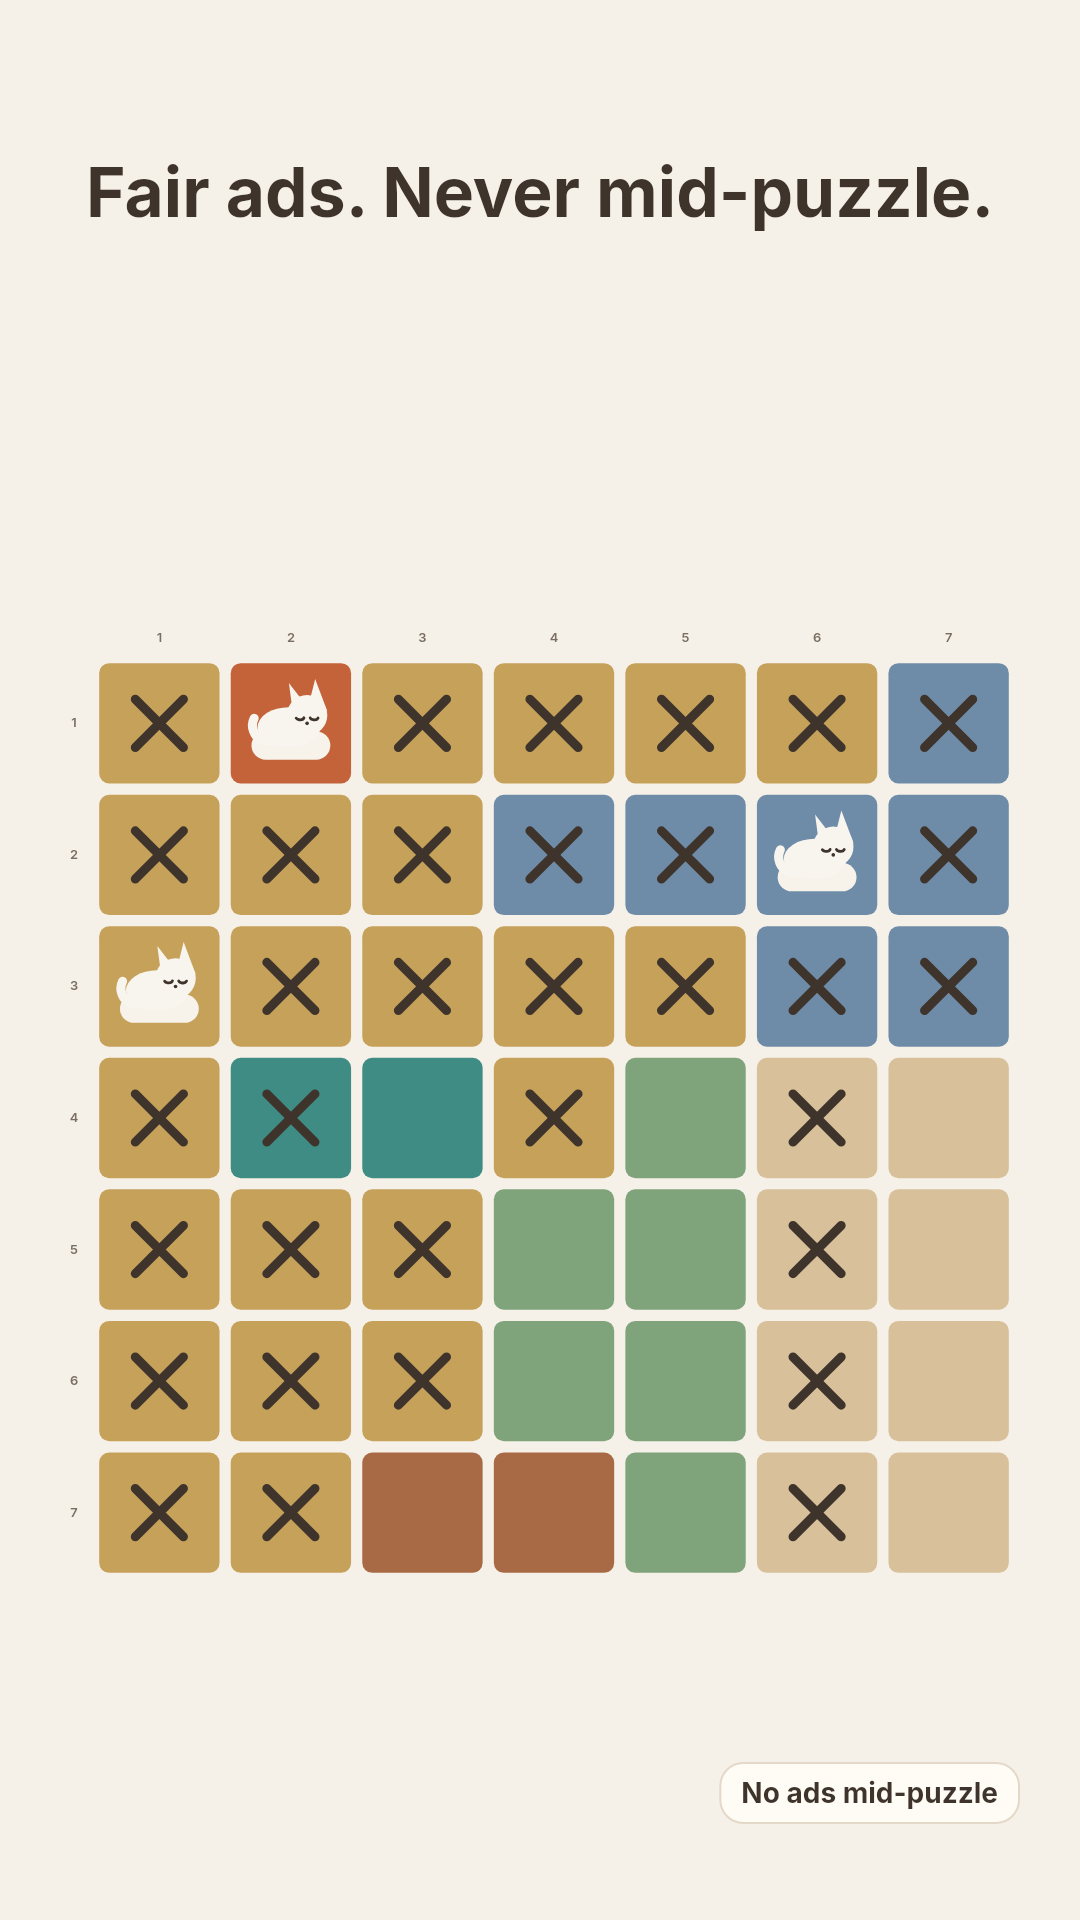
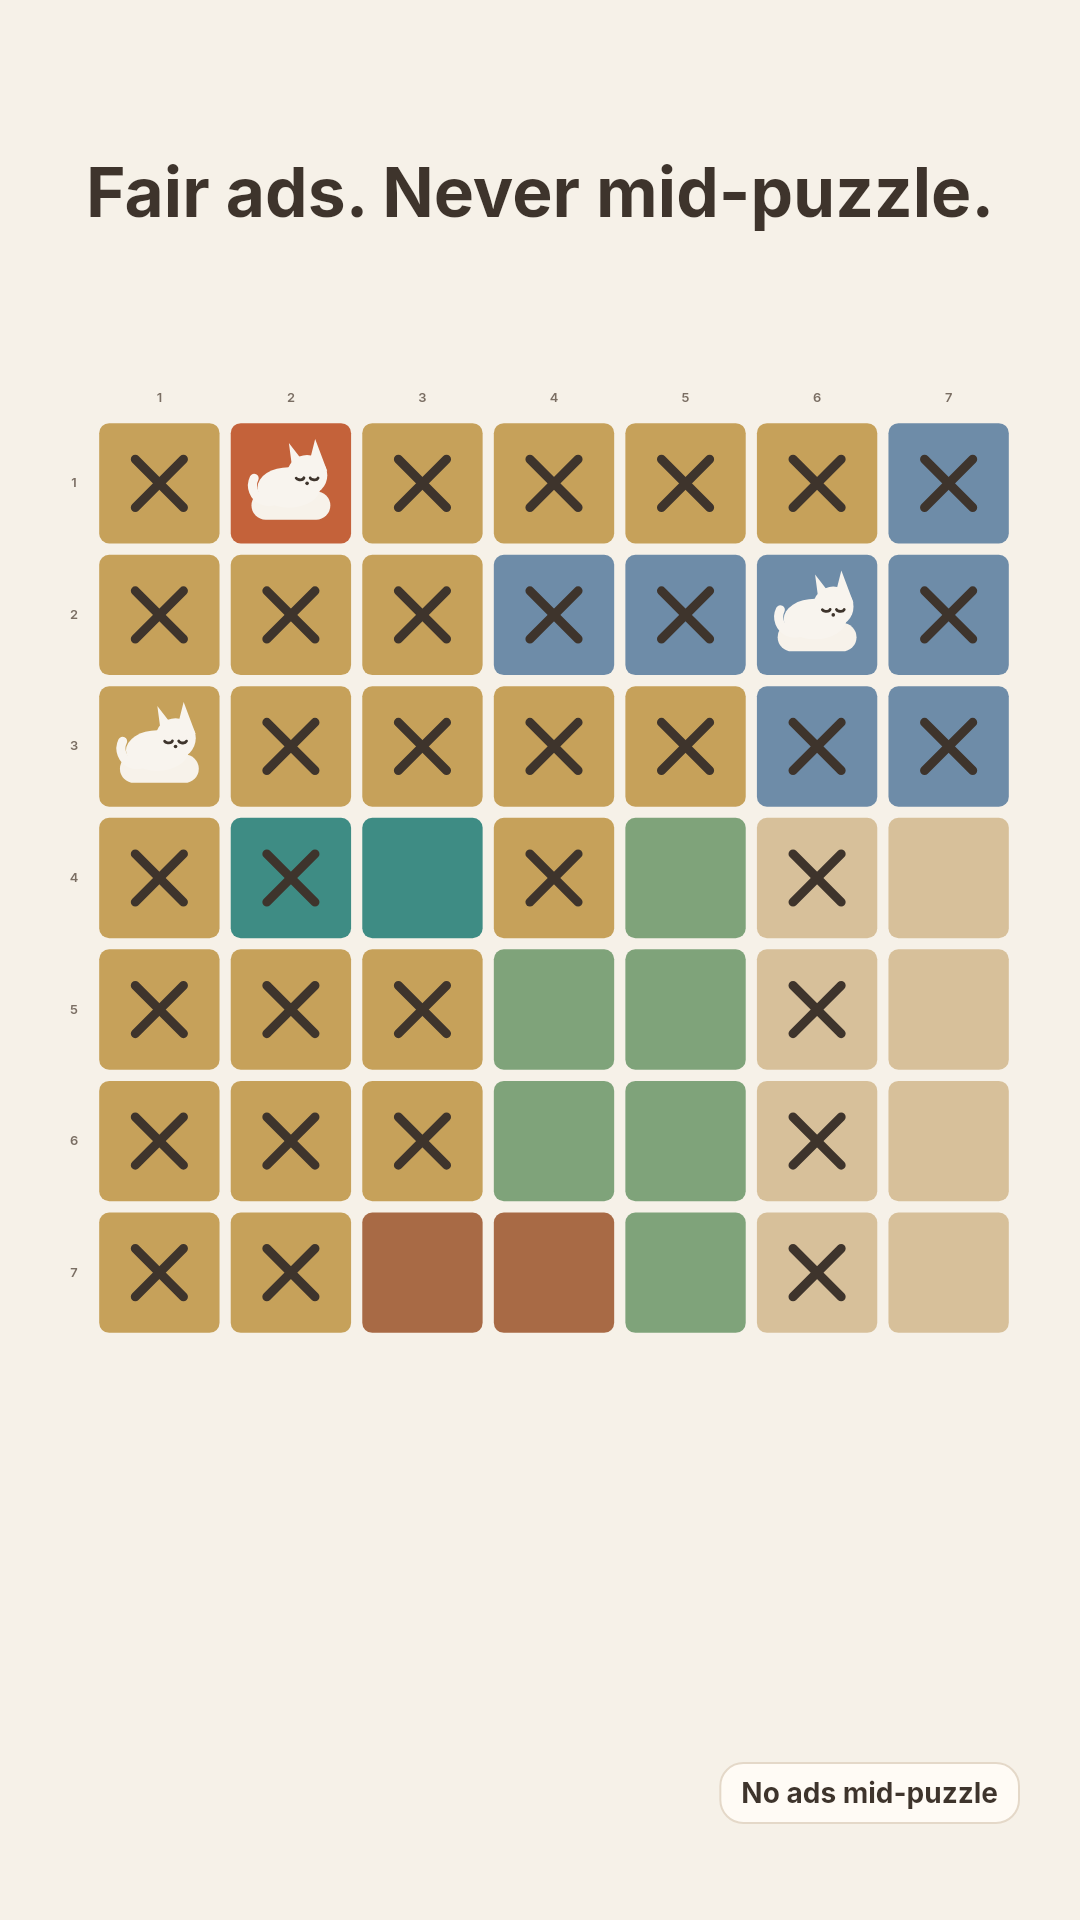
Give the hint shot a unique puzzle and tighten the ad gates.
Shot 4 uses campaign puzzle 7-023, which the solver accepts once, and the capture test checks every store board the same way. Remove Ads hides both menu banners, and a daily win cannot raise an interstitial before eight campaign puzzles are finished.

diff --git a/test/store/capture_store_test.dart b/test/store/capture_store_test.dart
@@ -21,6 +21,7 @@ late Puzzle five;
 late Puzzle seven;
 late Puzzle ten;
 late Puzzle daily;
+late Puzzle hintPuzzle;
 late List<CellMark> sevenMarks;
 late List<CellMark> fiveMarks;
 late List<CellMark> tenMarks;
@@ -100,13 +101,11 @@ Widget board(
   Set<int> emphasis = const {},
   Set<int> dim = const {},
   bool patterns = false,
+  bool alignTop = false,
   CatPalette? palette,
 }) {
   final theme = palette ?? meadow;
-  return CatTheme(
-    palette: theme,
-    patterns: patterns || theme.colorBlindSafe,
-    child: BoardView(
+  final view = BoardView(
       puzzle: puzzle,
       marks: marks,
       palette: theme,
@@ -116,7 +115,21 @@ Widget board(
       dim: dim,
       onTap: (_) {},
       onDoubleTap: (_) {},
-    ),
+    );
+  return CatTheme(
+    palette: theme,
+    patterns: patterns || theme.colorBlindSafe,
+    child: alignTop
+        ? LayoutBuilder(
+            builder: (context, constraints) {
+              final side = constraints.maxWidth;
+              return Align(
+                alignment: Alignment.topCenter,
+                child: SizedBox(width: side, height: side, child: view),
+              );
+            },
+          )
+        : view,
   );
 }
 
@@ -154,8 +167,12 @@ void main() {
     fiveMarks = placed(five, 2);
     tenMarks = placed(ten, 4);
     dailyMarks = placed(daily, 2);
+    hintPuzzle = catalog.levelById('7-023').toPuzzle();
     step = nextDeduction(seven, List<int>.filled(seven.cellCount, 0))!;
     regionNames = [for (final look in meadow.looks) look.name];
+    for (final entry in [('5x5', five), ('7x7', seven), ('10x10', ten), ('daily', daily), ('hint', hintPuzzle)]) {
+      expect(Solver.solutions(entry.$2, limit: 2), hasLength(1), reason: entry.$1);
+    }
   });
 
   testWidgets('01 fair ads', (tester) async {
@@ -166,7 +183,7 @@ void main() {
         caption: 'Fair ads. Never mid-puzzle.',
         scene: Stack(
           children: [
-            Padding(padding: const EdgeInsets.fromLTRB(60, 0, 60, 96), child: board(seven, sevenMarks)),
+            Padding(padding: const EdgeInsets.fromLTRB(60, 0, 60, 96), child: board(seven, sevenMarks, alignTop: true)),
             Positioned(right: 60, bottom: 96, child: _Badge(text: 'No ads mid-puzzle', palette: meadow)),
           ],
         ),
@@ -209,7 +226,13 @@ void main() {
           children: [
             Padding(
               padding: const EdgeInsets.fromLTRB(60, 0, 60, 180),
-              child: board(seven, _catIn(seven, step.focusCells.isEmpty ? step.resultCells : step.focusCells)),
+              child: board(seven, _catIn(seven, step.focusCells.isEmpty ? step.resultCells : step.focusCells), alignTop: true),
+            ),
+            const Positioned(
+              left: 0,
+              right: 0,
+              bottom: 190,
+              child: Center(child: CustomPaint(size: Size(28, 70), painter: _UpArrow())),
             ),
             const Positioned(
               left: 60,
@@ -225,14 +248,14 @@ void main() {
   });
 
   testWidgets('04 hints', (tester) async {
-    final puzzle = Puzzle(5, const [
-      1, 1, 0, 2, 2, //
-      1, 1, 0, 2, 2, //
-      1, 3, 0, 2, 2, //
-      3, 3, 3, 4, 4, //
-      3, 3, 4, 4, 4,
-    ]);
-    final hint = LogicState(puzzle).next(allowContradiction: false)!;
+    final puzzle = hintPuzzle;
+    expect(Solver.solutions(puzzle, limit: 2), hasLength(1));
+    final hint = analyzePuzzle(puzzle).steps.firstWhere(
+      (item) => item.kind == StepKind.regionInRow && item.regionIds.single == 3 && item.rows.single == 3,
+    );
+    expect(hint.focusCells, [25, 26]);
+    expect(explainStep(hint, regionNames), 'Teal fits only in row 4, so no other cell in row 4 can hold a cat.');
+    final row = {for (var column = 0; column < puzzle.size; column++) 3 * puzzle.size + column};
     await capture(
       tester,
       const Size(1080, 1920),
@@ -247,7 +270,8 @@ void main() {
                   puzzle,
                   List<CellMark>.filled(puzzle.cellCount, CellMark.empty),
                   focus: hint.focusCells.toSet(),
-                  dim: hint.resultCells.toSet(),
+                  dim: row.difference(hint.focusCells.toSet()),
+                  alignTop: true,
                 ),
               ),
             ),
@@ -312,16 +336,16 @@ void main() {
             alignment: Alignment.center,
             children: [
               Transform.translate(
-                offset: const Offset(-180, 40),
-                child: Transform.rotate(angle: -0.16, child: SizedBox(width: 640, height: 640, child: board(five, fiveMarks))),
+                offset: const Offset(-280, -36),
+                child: Transform.rotate(angle: -0.06, child: SizedBox(width: 400, height: 400, child: board(five, fiveMarks))),
               ),
               Transform.translate(
-                offset: const Offset(20, -20),
-                child: Transform.rotate(angle: 0.02, child: SizedBox(width: 720, height: 720, child: board(seven, sevenMarks))),
+                offset: const Offset(-200, 28),
+                child: Transform.rotate(angle: -0.02, child: SizedBox(width: 500, height: 500, child: board(seven, sevenMarks))),
               ),
               Transform.translate(
-                offset: const Offset(200, 30),
-                child: Transform.rotate(angle: 0.14, child: SizedBox(width: 820, height: 820, child: board(ten, tenMarks))),
+                offset: const Offset(160, 12),
+                child: SizedBox(width: 640, height: 640, child: board(ten, tenMarks)),
               ),
             ],
           ),
@@ -341,9 +365,9 @@ void main() {
           padding: const EdgeInsets.fromLTRB(60, 0, 60, 96),
           child: Row(
             children: [
-              Expanded(child: _LabeledBoard(label: 'Standard', child: board(five, fiveMarks))),
+              Expanded(child: _LabeledBoard(label: 'Standard', child: board(five, fiveMarks, alignTop: true))),
               const SizedBox(width: 24),
-              Expanded(child: _LabeledBoard(label: 'Color-blind', child: board(five, fiveMarks, patterns: true, palette: beacon))),
+              Expanded(child: _LabeledBoard(label: 'Color-blind', child: board(five, fiveMarks, patterns: true, palette: beacon, alignTop: true))),
             ],
           ),
         ),
@@ -468,6 +492,29 @@ class _OfflineChip extends StatelessWidget {
       ),
     );
   }
+}
+
+class _UpArrow extends CustomPainter {
+  const _UpArrow();
+
+  @override
+  void paint(Canvas canvas, Size size) {
+    final paint = Paint()
+      ..color = const Color(0xFF3E342C)
+      ..strokeWidth = 4
+      ..strokeCap = StrokeCap.round
+      ..style = PaintingStyle.stroke;
+    canvas.drawLine(Offset(size.width / 2, size.height), Offset(size.width / 2, 12), paint);
+    final head = Path()
+      ..moveTo(size.width / 2, 0)
+      ..lineTo(4, 18)
+      ..moveTo(size.width / 2, 0)
+      ..lineTo(size.width - 4, 18);
+    canvas.drawPath(head, paint);
+  }
+
+  @override
+  bool shouldRepaint(covariant CustomPainter oldDelegate) => false;
 }
 
 class _FlamePainter extends CustomPainter {

diff --git a/lib/core/ad_pacing.dart b/lib/core/ad_pacing.dart
@@ -63,8 +63,9 @@ class AdPacing {
     required DateTime now,
     required DateTime? lastInterstitialAt,
     required int interstitialsToday,
+    int finishedCampaignCount = openingLevels,
   }) {
-    if (midPuzzle) return false;
+    if (midPuzzle || finishedCampaignCount < openingLevels) return false;
     final minLevel = remote.integer(minLevelKey, fallback: 9);
     final every = remote.integer(everyKey, fallback: 2);
     final minGap = remote.integer(intervalKey, fallback: 90000);
@@ -89,5 +90,33 @@ class AdPacing {
     if (campaignLevel != null && campaignLevel <= openingLevels) return false;
     final raw = remote.string(rewardedKey, fallback: 'hint,extraHeart,secondDailyAttempt');
     return raw.split(',').contains(reason.name);
+  }
+
+  /// Daily wins never qualify. Neither does any win before 8 campaign puzzles are finished.
+  bool interstitialAfterWin({
+    required bool daily,
+    required bool removeAds,
+    required int finishedCampaignCount,
+    required int puzzleNumber,
+    required bool midPuzzle,
+    required DateTime now,
+    required DateTime? lastInterstitialAt,
+    required int interstitialsToday,
+  }) {
+    if (daily || removeAds) return false;
+    return allowInterstitial(
+      completedLevelNumber: puzzleNumber,
+      midPuzzle: midPuzzle,
+      now: now,
+      lastInterstitialAt: lastInterstitialAt,
+      interstitialsToday: interstitialsToday,
+      finishedCampaignCount: finishedCampaignCount,
+    );
+  }
+
+  /// Remove-ads hides the home and puzzle-list banners. The puzzle screen never has one.
+  bool menuBannerVisible({required bool removeAds, required int finishedCampaignCount, required AdSurface surface}) {
+    if (removeAds) return false;
+    return allowBanner(surface, completedCampaignLevels: finishedCampaignCount);
   }
 }

diff --git a/test/core/ad_pacing_test.dart b/test/core/ad_pacing_test.dart
@@ -47,5 +47,47 @@ void main() {
     expect(pacing.allowRewarded(RewardReason.hint, campaignLevel: 9), isTrue);
     expect(pacing.allowRewarded(RewardReason.secondDailyAttempt, completedCampaignLevels: 7), isFalse);
     expect(pacing.allowRewarded(RewardReason.secondDailyAttempt, completedCampaignLevels: 8), isTrue);
+    expect(
+      pacing.allowInterstitial(
+        completedLevelNumber: 10,
+        midPuzzle: false,
+        now: now,
+        lastInterstitialAt: null,
+        interstitialsToday: 0,
+        finishedCampaignCount: 7,
+      ),
+      isFalse,
+    );
+    expect(
+      pacing.interstitialAfterWin(
+        daily: true,
+        removeAds: false,
+        finishedCampaignCount: 20,
+        puzzleNumber: 12,
+        midPuzzle: false,
+        now: now,
+        lastInterstitialAt: null,
+        interstitialsToday: 0,
+      ),
+      isFalse,
+    );
+    expect(
+      pacing.interstitialAfterWin(
+        daily: false,
+        removeAds: true,
+        finishedCampaignCount: 20,
+        puzzleNumber: 12,
+        midPuzzle: false,
+        now: now,
+        lastInterstitialAt: null,
+        interstitialsToday: 0,
+      ),
+      isFalse,
+    );
+    expect(pacing.menuBannerVisible(removeAds: true, finishedCampaignCount: 20, surface: AdSurface.menu), isFalse);
+    expect(pacing.menuBannerVisible(removeAds: true, finishedCampaignCount: 20, surface: AdSurface.levelSelect), isFalse);
+    expect(pacing.menuBannerVisible(removeAds: false, finishedCampaignCount: 20, surface: AdSurface.menu), isTrue);
+    expect(pacing.menuBannerVisible(removeAds: false, finishedCampaignCount: 20, surface: AdSurface.game), isFalse);
+    expect(pacing.menuBannerVisible(removeAds: false, finishedCampaignCount: 3, surface: AdSurface.levelSelect), isFalse);
   });
 }

diff --git a/lib/services/mobile_ads_service.dart b/lib/services/mobile_ads_service.dart
@@ -6,7 +6,6 @@ import 'package:google_mobile_ads/google_mobile_ads.dart';
 import '../ads/ad_units.dart';
 import '../core/ad_pacing.dart';
 import '../core/daily.dart';
-import '../core/economy.dart';
 import 'ad_service.dart';
 import 'analytics_service.dart';
 
@@ -105,7 +104,7 @@ class MobileAdsService extends ChangeNotifier implements AdService {
 
   @override
   Widget? bannerWidget(AdSurface surface) {
-    if (!_ready || _adsRemoved || !pacing.allowBanner(surface, completedCampaignLevels: _campaignCompleted)) {
+    if (!_ready || !pacing.menuBannerVisible(removeAds: _adsRemoved, finishedCampaignCount: _campaignCompleted, surface: surface)) {
       return null;
     }
     final banner = _banners[surface];
@@ -118,21 +117,22 @@ class MobileAdsService extends ChangeNotifier implements AdService {
     required int completedLevelNumber,
     required bool midPuzzle,
     required DateTime now,
+    bool daily = false,
   }) async {
     final day = isoDate(now);
     if (_shownDay != day) {
       _shownDay = day;
       _shownToday = 0;
     }
-    final allowed = shouldShowForcedAd(
+    final allowed = pacing.interstitialAfterWin(
+      daily: daily,
       removeAds: _adsRemoved,
-      pacingAllows: pacing.allowInterstitial(
-        completedLevelNumber: completedLevelNumber,
-        midPuzzle: midPuzzle,
-        now: now,
-        lastInterstitialAt: _lastInterstitial,
-        interstitialsToday: _shownToday,
-      ),
+      finishedCampaignCount: _campaignCompleted,
+      puzzleNumber: completedLevelNumber,
+      midPuzzle: midPuzzle,
+      now: now,
+      lastInterstitialAt: _lastInterstitial,
+      interstitialsToday: _shownToday,
     );
     final ad = _interstitial;
     if (!allowed || !_ready || ad == null) {

diff --git a/lib/services/ad_service.dart b/lib/services/ad_service.dart
@@ -23,6 +23,7 @@ abstract class AdService {
     required int completedLevelNumber,
     required bool midPuzzle,
     required DateTime now,
+    bool daily = false,
   });
 
   Future<bool> showRewarded(RewardReason reason, {int? campaignLevel});
@@ -61,8 +62,9 @@ class NoopAdService implements AdService {
     required int completedLevelNumber,
     required bool midPuzzle,
     required DateTime now,
+    bool daily = false,
   }) async {
-    if (adsRemoved || midPuzzle) return false;
+    if (daily || adsRemoved || midPuzzle || campaignCompleted < AdPacing.openingLevels) return false;
     return pacing.allowInterstitial(
       completedLevelNumber: completedLevelNumber,
       midPuzzle: midPuzzle,

diff --git a/lib/ui/screens/game_screen.dart b/lib/ui/screens/game_screen.dart
@@ -121,13 +121,12 @@ class _GameScreenState extends State<GameScreen> with WidgetsBindingObserver {
       'id': request.level.id,
       'ms': elapsed,
     });
-    if (!request.daily) {
-      await widget.services.ads.maybeShowInterstitial(
-        completedLevelNumber: request.number,
-        midPuzzle: false,
-        now: DateTime.now(),
-      );
-    }
+    await widget.services.ads.maybeShowInterstitial(
+      completedLevelNumber: request.number,
+      midPuzzle: false,
+      now: DateTime.now(),
+      daily: request.daily,
+    );
     if (mounted) setState(() {});
   }
 
